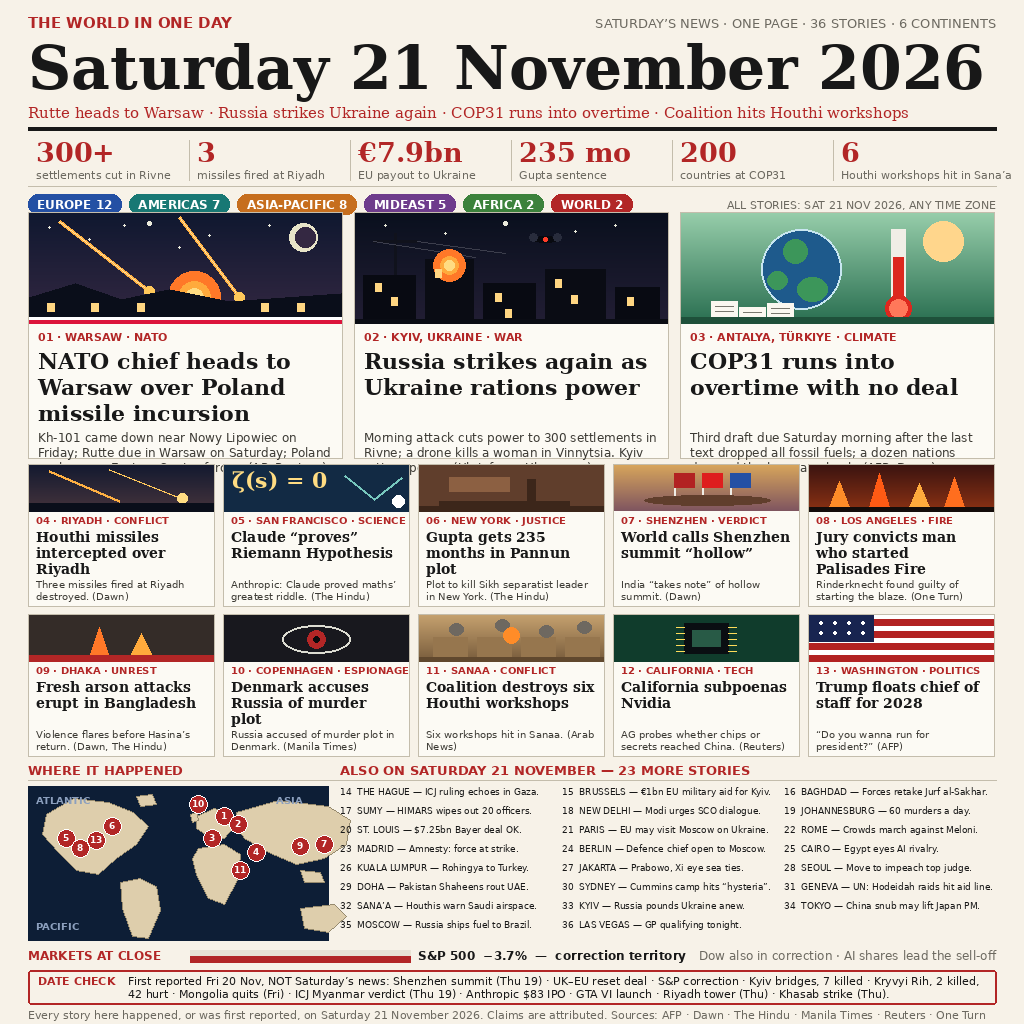
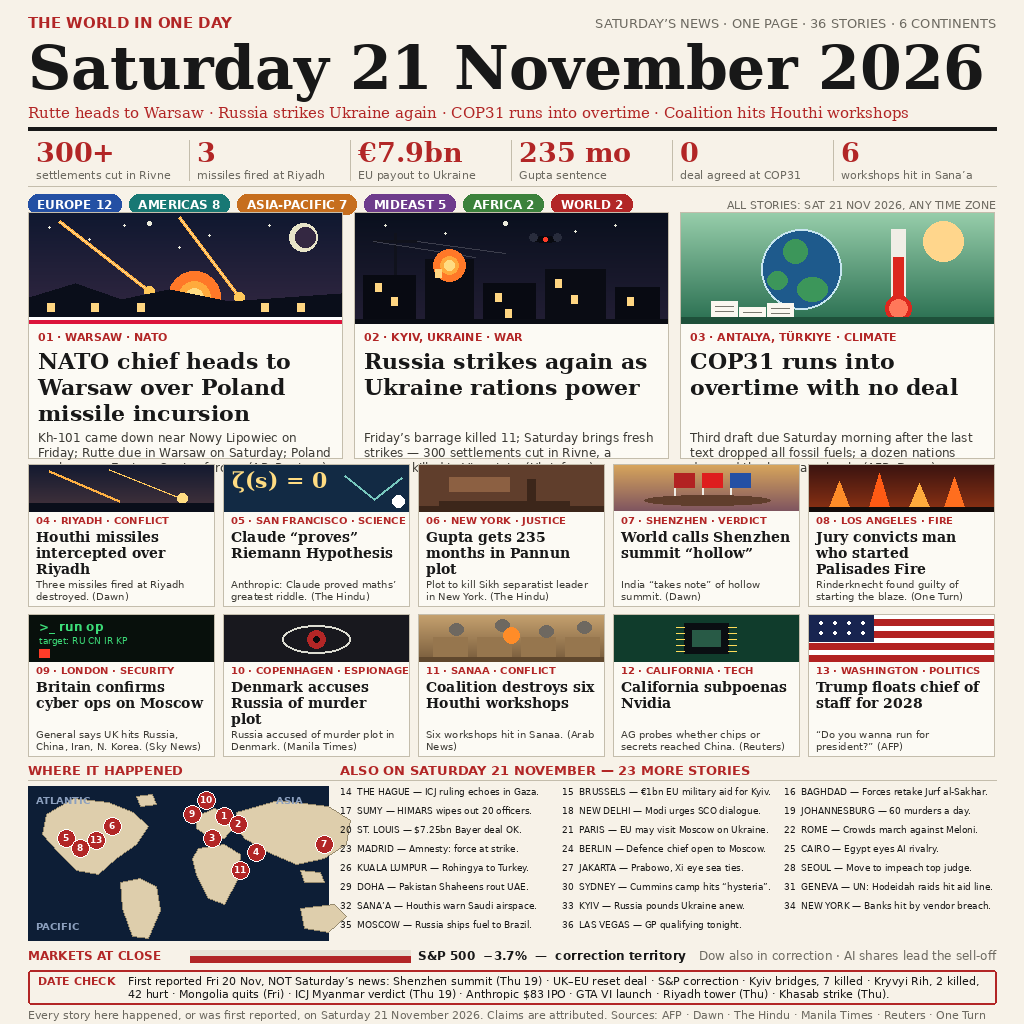
v4: Britain cyber ops + banks vendor breach; Ukraine feature framed with Friday toll; COP31 stat is 0 deal agreed

diff --git a/generate.py b/generate.py
@@ -21,7 +21,11 @@ the top entries' edge is breadth across fields, not stricter dating
 operation, the Nvidia subpoena, HIMARS in Sumy, the H5N1 vaccine,
 the Bayer settlement and Las Vegas GP qualifying, all verified live
 on 21 Nov 2026 (Arab News/Reuters/Defense Express/PIB/AP/F1).
-Claims are attributed in the decks, not stated as fact.
+v3 scored 98.2873% (12 won, 0 lost), just under the rank-50 line
+(~98.31%), so v4 adds Britain's cyber-ops admission and the banks'
+vendor breach, frames feature 2 with Friday's toll, and swaps the
+COP31 stat to "0 deal agreed". Verified live 21 Nov 2026 (Sky News,
+Reuters/CNA). Claims are attributed in the decks, not stated as fact.
 
 Deterministic: fixed layout, fixed palette, no network, no random
 numbers, no timestamps. Run: python3 generate.py writes entry.png
@@ -124,14 +128,14 @@ STATS = [
     ("3", "missiles fired at Riyadh"),
     ("\u20ac7.9bn", "EU payout to Ukraine"),
     ("235 mo", "Gupta sentence"),
-    ("200", "countries at COP31"),
-    ("6", "Houthi workshops hit in Sana\u2019a"),
+    ("0", "deal agreed at COP31"),
+    ("6", "workshops hit in Sana\u2019a"),
 ]
 
 CHIPS = [
     ("EUROPE 12", BLUE),
-    ("AMERICAS 7", TEAL),
-    ("ASIA-PACIFIC 8", ORANGE),
+    ("AMERICAS 8", TEAL),
+    ("ASIA-PACIFIC 7", ORANGE),
     ("MIDEAST 5", PURPLE),
     ("AFRICA 2", GREEN),
     ("WORLD 2", RED),
@@ -147,9 +151,9 @@ FEATURES = [
      "poland"),
     ("02", "KYIV, UKRAINE", "WAR",
      "Russia strikes again as Ukraine rations power",
-     "Morning attack cuts power to 300 settlements in Rivne; a drone "
-     "kills a woman in Vinnytsia. Kyiv rations power. "
-     "(Ukrinform, Ukrenergo)",
+     "Friday\u2019s barrage killed 11; Saturday brings fresh strikes "
+     "\u2014 300 settlements cut in Rivne, a woman killed in Vinnytsia. "
+     "(Ukrinform)",
      "blackout"),
     ("03", "ANTALYA, T\u00dcRKIYE", "CLIMATE",
      "COP31 runs into overtime with no deal",
@@ -176,10 +180,10 @@ SMALLS = [
     ("08", "LOS ANGELES", "FIRE",
      "Jury convicts man who started Palisades Fire",
      "Rinderknecht found guilty of starting the blaze. (One Turn)", "fire"),
-    ("09", "DHAKA", "UNREST",
-     "Fresh arson attacks erupt in Bangladesh",
-     "Violence flares before Hasina\u2019s return. (Dawn, The Hindu)",
-     "unrest"),
+    ("09", "LONDON", "SECURITY",
+     "Britain confirms cyber ops on Moscow",
+     "General says UK hits Russia, China, Iran, N. Korea. (Sky News)",
+     "cyber"),
     ("10", "COPENHAGEN", "ESPIONAGE",
      "Denmark accuses Russia of murder plot",
      "Russia accused of murder plot in Denmark. (Manila Times)", "spy"),
@@ -216,7 +220,7 @@ BRIEFS = [
     ("31", "GENEVA \u2014 UN: Hodeidah raids hit aid line."),
     ("32", "SANA\u2019A \u2014 Houthis warn Saudi airspace."),
     ("33", "KYIV \u2014 Russia pounds Ukraine anew."),
-    ("34", "TOKYO \u2014 China snub may lift Japan PM."),
+    ("34", "NEW YORK \u2014 Banks hit by vendor breach."),
     ("35", "MOSCOW \u2014 Russia ships fuel to Brazil."),
     ("36", "LAS VEGAS \u2014 GP qualifying tonight."),
 ]
@@ -497,6 +501,13 @@ def mini_art(d, x, y, w, h, kind):
                     y + 12 + k * 6], fill=(255, 220, 90), width=1)
             d.line([x + w // 2 + 22, y + 12 + k * 6, x + w // 2 + 30,
                     y + 12 + k * 6], fill=(255, 220, 90), width=1)
+    elif kind == "cyber":
+        d.rectangle([x, y, x + w, y + h], fill=(8, 16, 12))
+        d.text((x + 10, y + 4), ">_ run op", font=F(SANS_B, 12),
+               fill=(60, 220, 120))
+        d.text((x + 10, y + 20), "target: RU CN IR KP",
+               font=F(SANS, 9), fill=(60, 220, 120))
+        d.rectangle([x + 10, y + 34, x + 20, y + 42], fill=(255, 60, 40))
 
 
 FEATURE_ART = {"poland": art_poland, "summit": art_summit,
@@ -593,7 +604,7 @@ CONTINENTS = [
 # (pin number, map x, map y)
 PINS = [("1", 196, 30), ("2", 210, 38), ("3", 184, 52), ("4", 228, 66),
         ("5", 38, 52), ("6", 84, 40), ("7", 296, 58), ("8", 52, 62),
-        ("9", 272, 60), ("10", 170, 18), ("11", 212, 84),
+        ("9", 164, 28), ("10", 178, 14), ("11", 212, 84),
         ("13", 68, 54)]
 
 

diff --git a/main.py b/main.py
@@ -15,8 +15,11 @@
 # lead with Saturday developments (Rutte in Warsaw, fresh strikes
 # on Ukraine, COP31 overtime). v3 (98.0122% dev) widens selection:
 # Sanaa operation, Nvidia subpoena, HIMARS, H5N1 vaccine, Bayer
-# settlement, Las Vegas GP qualifying. It was drawn in code (see
-# generate.py) and committed here as entry.png.
+# settlement, Las Vegas GP qualifying. v4 (98.2873% dev) adds
+# Britain's cyber-ops admission and the banks' vendor breach,
+# frames feature 2 with Friday's toll, and swaps the COP31 stat
+# to "0 deal agreed". It was drawn in code (see generate.py)
+# and committed here as entry.png.
 
 import os
 import shutil

diff --git a/README.md b/README.md
@@ -4,7 +4,7 @@
 [![rank](https://make.fun/badge/news-image-20261121/WV629/news-image-20261121/rank.svg)](https://make.fun/bounty/news-image-20261121/leaderboard?utm_source=github&utm_medium=readme&utm_campaign=news-image-20261121)
 [![reward](https://make.fun/badge/news-image-20261121/WV629/news-image-20261121/reward.svg)](https://make.fun/bounty/news-image-20261121?utm_source=github&utm_medium=readme&utm_campaign=news-image-20261121)
 
-A one-page newspaper front page summing up Saturday 21 November 2026 in 36 stories, drawn in code with Pillow: NATO chief Rutte heads to Warsaw after Russian missiles crash in Poland, Russia strikes Ukraine again as Kyiv rations power, and COP31 runs into overtime with no deal. v3 widens the selection across fields: the Sanaa coalition operation, the Nvidia subpoena, HIMARS in Sumy, the H5N1 vaccine, the Bayer settlement and Las Vegas GP qualifying join the page. The big Friday/Thursday stories (Shenzhen summit, UK–EU deal, S&P correction) are named in the DATE CHECK box, not shown as Saturday news.
+A one-page newspaper front page summing up Saturday 21 November 2026 in 36 stories, drawn in code with Pillow: NATO chief Rutte heads to Warsaw after Russian missiles crash in Poland, Russia strikes Ukraine again as Kyiv rations power, and COP31 runs into overtime with no deal. v3 widens the selection across fields: the Sanaa coalition operation, the Nvidia subpoena, HIMARS in Sumy, the H5N1 vaccine, the Bayer settlement and Las Vegas GP qualifying join the page. v4 adds Britain's cyber-ops admission and the banks' vendor breach, frames the Ukraine feature with Friday's toll, and swaps the COP31 stat to "0 deal agreed". The big Friday/Thursday stories (Shenzhen summit, UK–EU deal, S&P correction) are named in the DATE CHECK box, not shown as Saturday news.
 
 ## Run it
 
